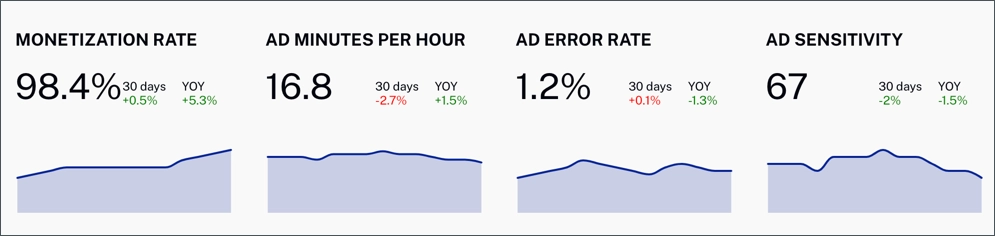
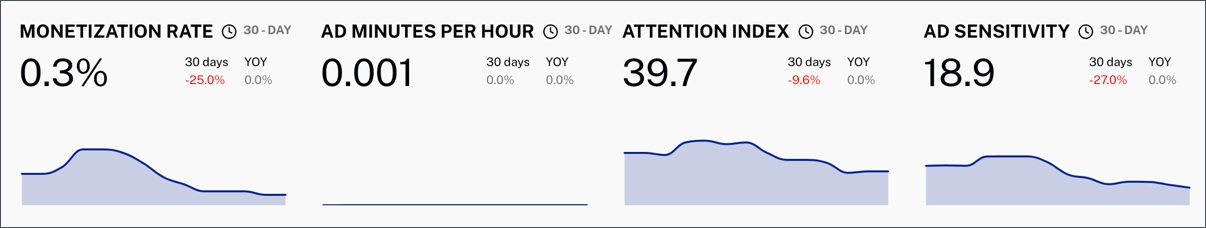
ad insights updates 2

diff --git a/_site/analytics/module/ad-insights.html b/_site/analytics/module/ad-insights.html
@@ -3285,10 +3285,10 @@
     <h4>Ad consumption by:</h4>
     <ul>
       <li><strong>ALL</strong> - Filter by all the parameters</li>
-      <li><strong>Video duration</strong> - Duration in minutes of the video (< 5, 5-10, 10-30, 30+)</li>
       <li><strong>Video type</strong> - Type of video</li>
+      <li><strong>Device model type</strong> - Type of device model </li>
       <li><strong>Genre</strong> - Genre watched </li>
-      <li><strong>Device</strong> - Device type</li>
+      <li><strong>Device os</strong> - Operating system of the device</li>
     </ul>
     <h4>Measure dimensions</h4>
     <ul>
@@ -3315,7 +3315,7 @@
     <ul>
       <li><strong>Monetization rate</strong> - Percentage of the number of views that have been successfully monetized</li>
       <li><strong>Ad minutes per content hour</strong> - Number of minutes of ads watched</li>
-      <li><strong>Monetizated attention index</strong> - Monetized attention index</li>
+      <li><strong>Attention index</strong> - Average how long the user remained</li>
       <li><strong>Ad sensitivity</strong> - Shows the impact on completion rate between no ads and having ads</li>
     </ul>
     
@@ -3327,28 +3327,36 @@
     <figure class="bcls-figure"><img class="bcls-image--no-border" alt="AVOD Completion Rates" src="/assets/images/s-analytics-img/module/ad-insights/vod-completion-rates.webp" />
       <figcaption class="bcls-caption--image">VOD Completion Rates</figcaption>  
     </figure>
+    <h3>Dimensions</h3>
+    <h4>VOD Completion rates by:</h4>
+    <ul>
+      <li><strong>Content duration</strong> - Duration in minutes of the content</li>
+      <li><strong>Gnere</strong> - Genre type</li>
+      <li><strong>Top 5 content</strong> - The top 5 content most watched </li>
+      <li><strong>Pod duration</strong> - Ad pod duration</li>
+    </ul>
     <h3>Data view</h3>
     <p>The y-axis of this chart shows the percentage of viewers that remained watching the content. This chart provides information on when the audience is dropping out and is analyzed based on content duration.</p>
     <figure class="bcls-figure"><img class="bcls-image--no-border" alt="AVOD Completion Rates" src="/assets/images/s-analytics-img/module/ad-insights/content-duration-graph.webp" />
       <figcaption class="bcls-caption--image">Content Duration</figcaption>  
     </figure>
-    <p>The following graphs explain each of the categories in detail.</p>
+    <p>The following graphs explain each one of the categories in detail:</p>
     <figure class="bcls-figure"><img class="bcls-image--no-border" alt="AVOD Completion Rates" src="/assets/images/s-analytics-img/module/ad-insights/categories-chart.webp" />
       <figcaption class="bcls-caption--image">Categories Chart</figcaption>  
     </figure>
     <h4>Values</h4>
     <ul>
-      <li><strong>Attention index</strong> - Average how long the user stays </li>
+      <li><strong>Attention index</strong> - Average how long the user remained </li>
       <li><strong>Attention index (mon) </strong> - Attention index for monetized content</li>
       <li><strong>Monetization rate</strong> - Number of views that have been successfully monetized for this category</li>
       <!-- <li><strong>Ad error rate</strong> - Number of ads that have failed(not available for now)</li> -->
       <li><strong>Ad minutes/hour</strong> - Ad minutes versus hours</li>
       <li><strong>Pods/hours</strong> - Number of ad pods per hour</li>
     </ul>
-    <h4>Ad minutes</h4>
+    <h4>Ad minutes by</h4>
     <li><strong>Top genres</strong> - Most popular genres </li>
     <li><strong>Top titles</strong> - Most popular titles</li>
-    <li><strong>Pod duration</strong> - Ad pod duration</li>
+    <li><strong>Pod duration</strong> - Ad pod duration in seconds</li>
   </section>
 
   <!-- <section class="bcls-section">
